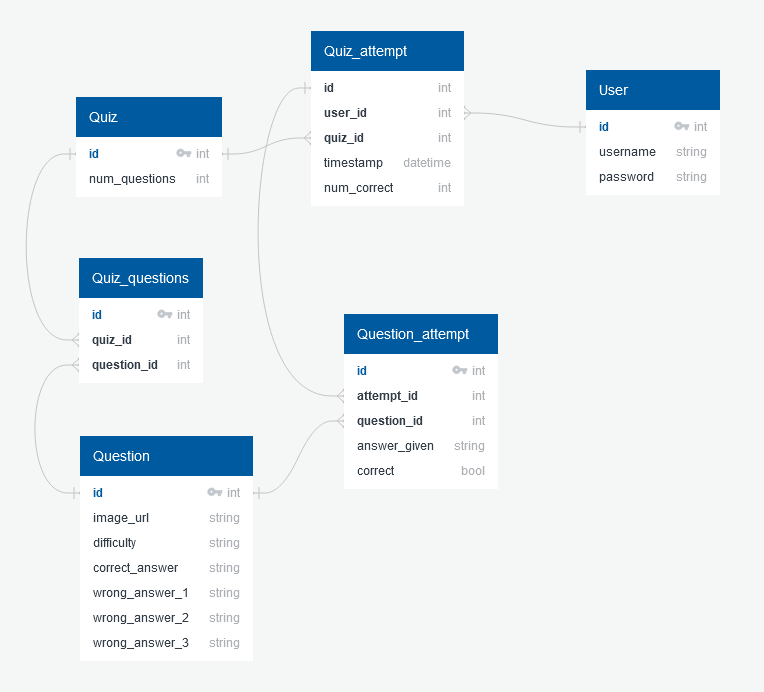
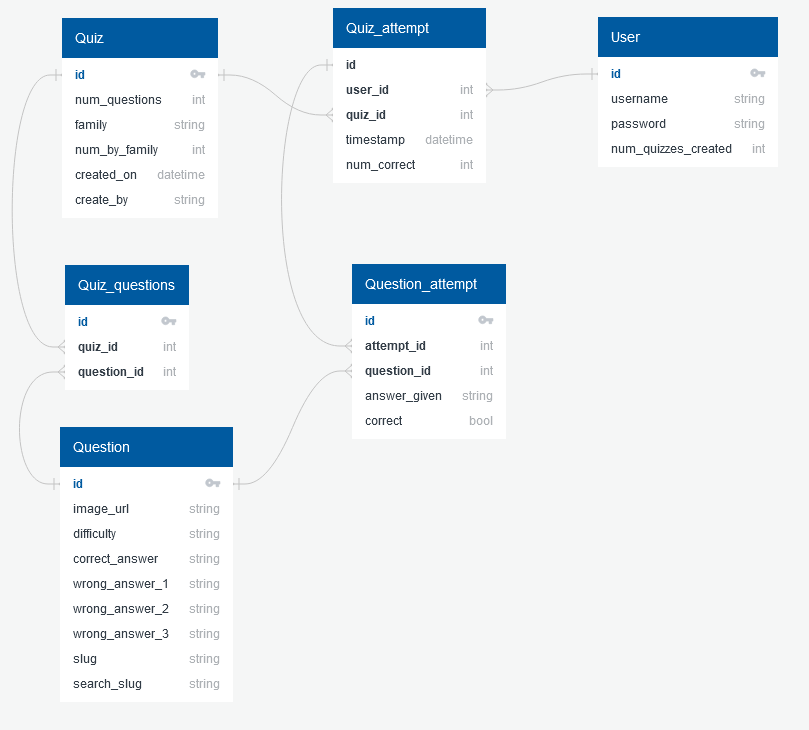
update readme and schema

diff --git a/README.md b/README.md
@@ -1,17 +1,41 @@
 ## Plant Quizzes
 
-This repo contains the files for my first capstone project. It will be an app that provides quizzes to test the user's ability to recognize images of plants. See [proposal.md](proposal.md) for more details on the original plant.
+This repo contains the files for my first capstone project. It is a web app that provides quizzes to test the user's ability to recognize images of plants. See [proposal.md](proposal.md) for more details on the original plan.
+
+A live version of the app is deployed on Heroku here: https://plant-quizzes.herokuapp.com/.
+
+### Website Content
+
+The core of the website is the set of quizzes that a person can take. Each quiz shows ten images of plants with four choices from which to select the correct common name for the plant. When the user submits the quiz, the total number correct is calculated, and the pictures are shown again with the correct common name. Under each picture is a link to a detail page fore each plant.
+
+Users who are not signed in may pick from five quizzes; users who create an account can pick from any available quizzes. Initially, 17 quizzes are in the database. Users who take more than 10 different quizzes may request the creation of another quiz, with plants from a family the user selects.
+
+Signed-in users have other benefits. They can view a list of all the quizzes they have tried, with the latest score and average score on each quiz. In addition, they can view a page with all the plants they have seen on a quiz for further study. There is also a page for each plant with details about the plant and links to Wikipedia and Google searches for even more information.
+
+### Information Source
 
 Information to create the quizzes comes from https://trefle.io/, which is an API that provides botanical data gathered from a variety of sources such as the USDA and Wikimedia.
 
-The database schema for the project is [here](schema.PNG). It will be updated to reflect the actual schema (more fields added for some models) when the app is complete.
+Quiz questions come from the results of a search for plants (a specific category available in the API) filtered to include only ones with an image URL and a common name. If the quiz is for a specific plant family, the results are also filtered to include only ones from that family. Wrong answers come from the common names of plants in the search results that were not randomly selected for the quiz. 
 
-The current set of files produces a functioning website. I am working on polishing it and perhaps adding an additional feature or two, so check back soon.
+### Technology Stack
+
+The plant quizzes and user data are stored in a PostgreSQL database. The database schema is [here](schema.PNG). 
+
+SQLAlchemy is the ORM connecting the database to the Flask app. 
+
+The website is a Flask app. Forms use WTForms and password encryption uses Bcrypt. All of the pages are served with jinja2 templates. 
+
+On the frontend, the [Materialize] (https://materializecss.com/) framework takes care of most of the styling.
 
 ### To Use
 
-Create a postgres database named plant_squizzes. (The tests require one named plant_quizzes_test.)
+The app is running at https://plant-quizzes.herokuapp.com/.
 
-Install Flask and the packages in requirements.txt.
+If you prefer to run it on your own machine:
 
-Run seed.py to populate the database with 11 pre-made quizzes.
+- Clone this repo.
+- Create a postgres database named plant_quizzes. (The tests require one named plant_quizzes_test.)
+- Install Flask and the packages in requirements.txt.
+- Run seed.py to populate the database with 17 pre-made quizzes.
+- Start Flask and have fun!
